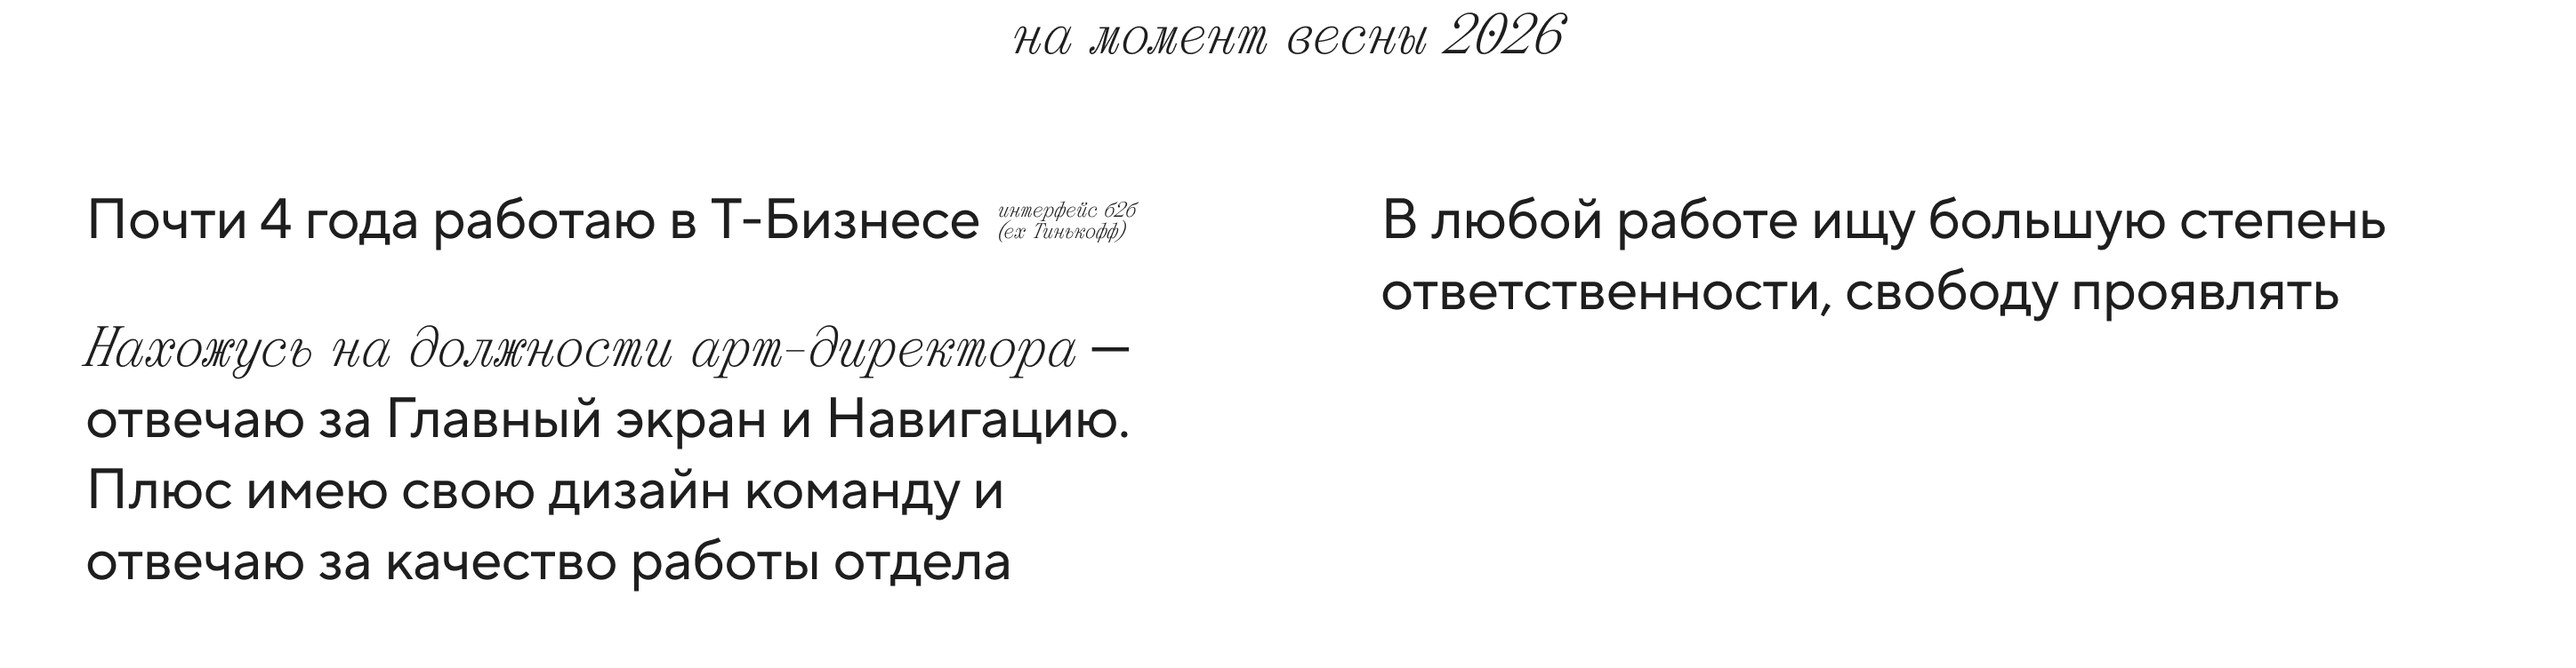
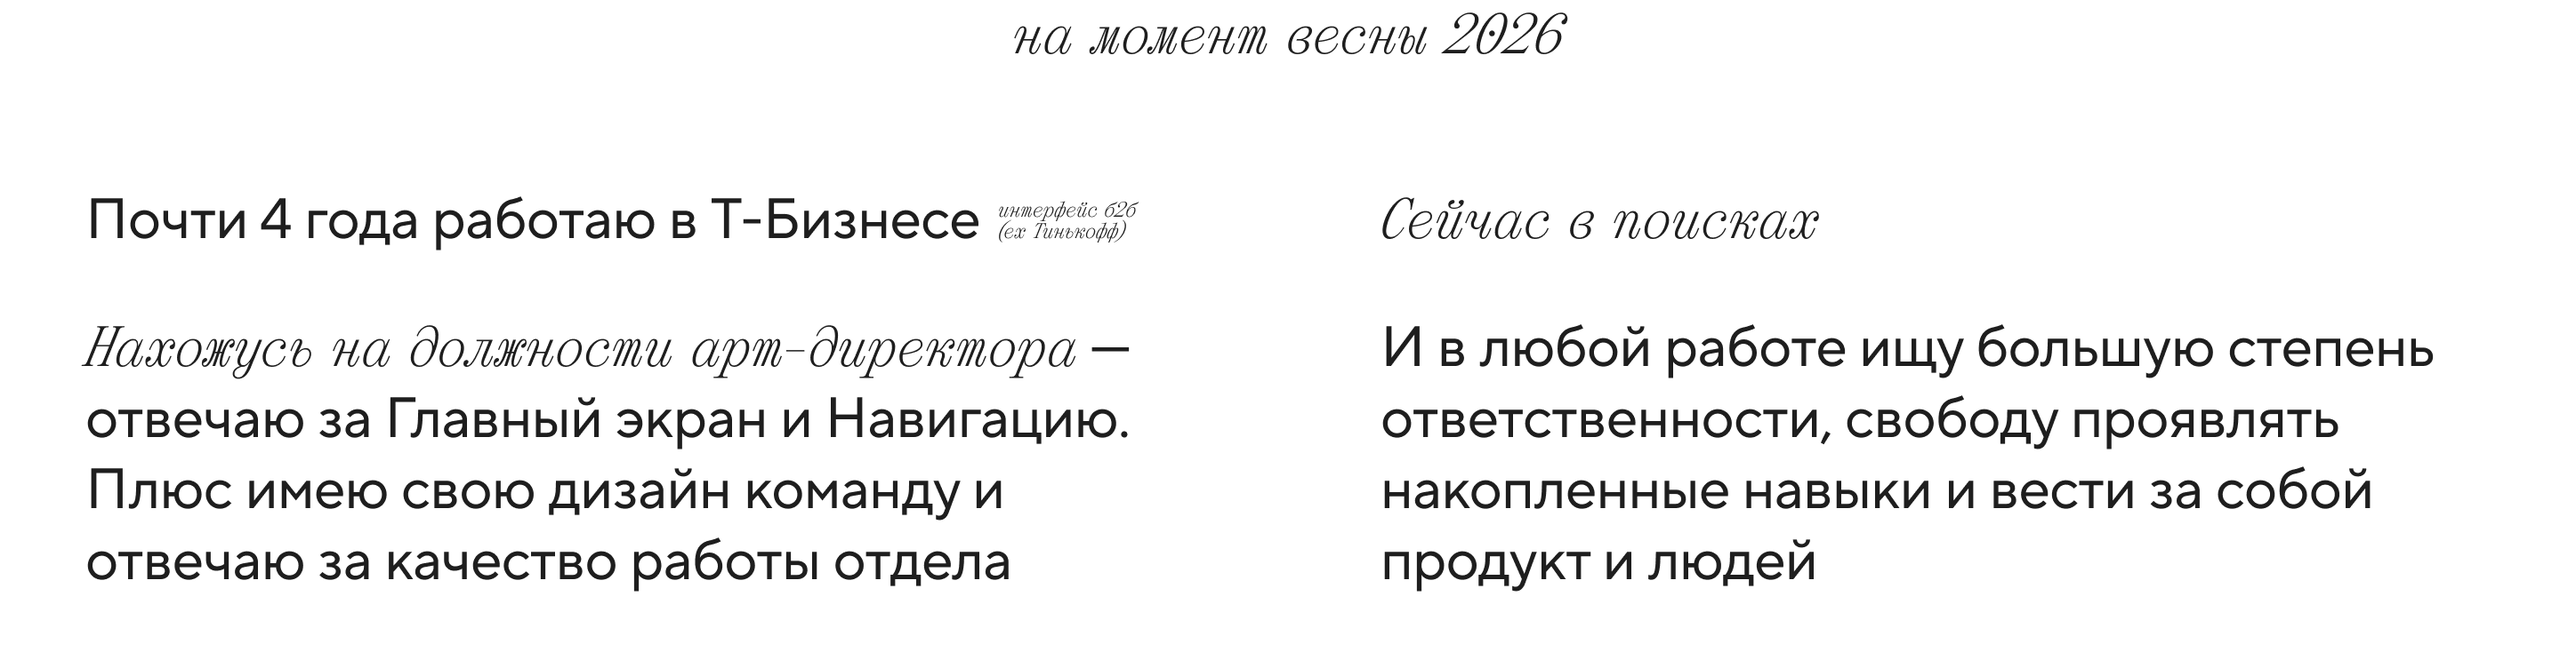
Update pre-case block and first case image

diff --git a/src/App.jsx b/src/App.jsx
@@ -267,6 +267,36 @@ function App() {
           <img src={bandImage} alt="" />
         </section>
 
+        <section className="moment-section">
+          <p className="section-title panama-italic">на момент весны 2026</p>
+
+          <div className="moment-grid">
+            <article className="moment-card moment-card--left">
+              <p className="moment-card__eyebrow">Почти 4 года работаю в Т-Бизнесе</p>
+              <p className="moment-card__meta panama-italic">
+                интерфейс б2б
+                <br />
+                (ех Тинькофф)
+              </p>
+              <div className="moment-card__copy">
+                <p>
+                  <span className="panama-italic">Нахожусь на должности арт-директора</span> —
+                  отвечаю за Главный экран и Навигацию.
+                </p>
+                <p>Плюс имею свою дизайн команду и отвечаю за качество работы отдела</p>
+              </div>
+            </article>
+
+            <article className="moment-card moment-card--right">
+              <p className="moment-card__intro panama-italic">Сейчас в поисках</p>
+              <p className="moment-card__body">
+                И в любой работе ищу большую степень ответственности, свободу проявлять
+                накопленные навыки и вести за собой продукт и людей
+              </p>
+            </article>
+          </div>
+        </section>
+
         <section className="cases-wrapper" id="cases">
           <h2 className="section-title panama-italic">опыт, компетенции и кейсы</h2>
 

diff --git a/src/App.css b/src/App.css
@@ -226,6 +226,71 @@
   object-fit: cover;
 }
 
+.moment-section {
+  margin-top: 180px;
+}
+
+.moment-grid {
+  display: grid;
+  grid-template-columns: repeat(2, 720px);
+  gap: 8px;
+  margin-top: 64px;
+}
+
+.moment-card {
+  position: relative;
+  min-height: 312px;
+  padding: 40px 48px;
+  background: #ffffff;
+  border-radius: 72px;
+}
+
+.moment-card__eyebrow,
+.moment-card__body,
+.moment-card__copy p {
+  margin: 0;
+  color: #1e1e1e;
+  font-family: 'TT Norms Pro', 'Manrope', sans-serif;
+  font-size: 32px;
+  line-height: 40px;
+  letter-spacing: -0.32px;
+}
+
+.moment-card__eyebrow {
+  width: 648px;
+}
+
+.moment-card__meta {
+  position: absolute;
+  top: 40px;
+  right: 48px;
+  margin: 0;
+  color: #1e1e1e;
+  font-size: 12px;
+  line-height: 12px;
+  text-align: right;
+}
+
+.moment-card__copy {
+  margin-top: 64px;
+}
+
+.moment-card__copy p + p {
+  margin-top: 0;
+}
+
+.moment-card__intro {
+  margin: 0;
+  color: #1e1e1e;
+  font-size: 32px;
+  line-height: 40px;
+}
+
+.moment-card__body {
+  width: 644px;
+  margin-top: 32px;
+}
+
 .cases-wrapper {
   margin-top: 180px;
 }
